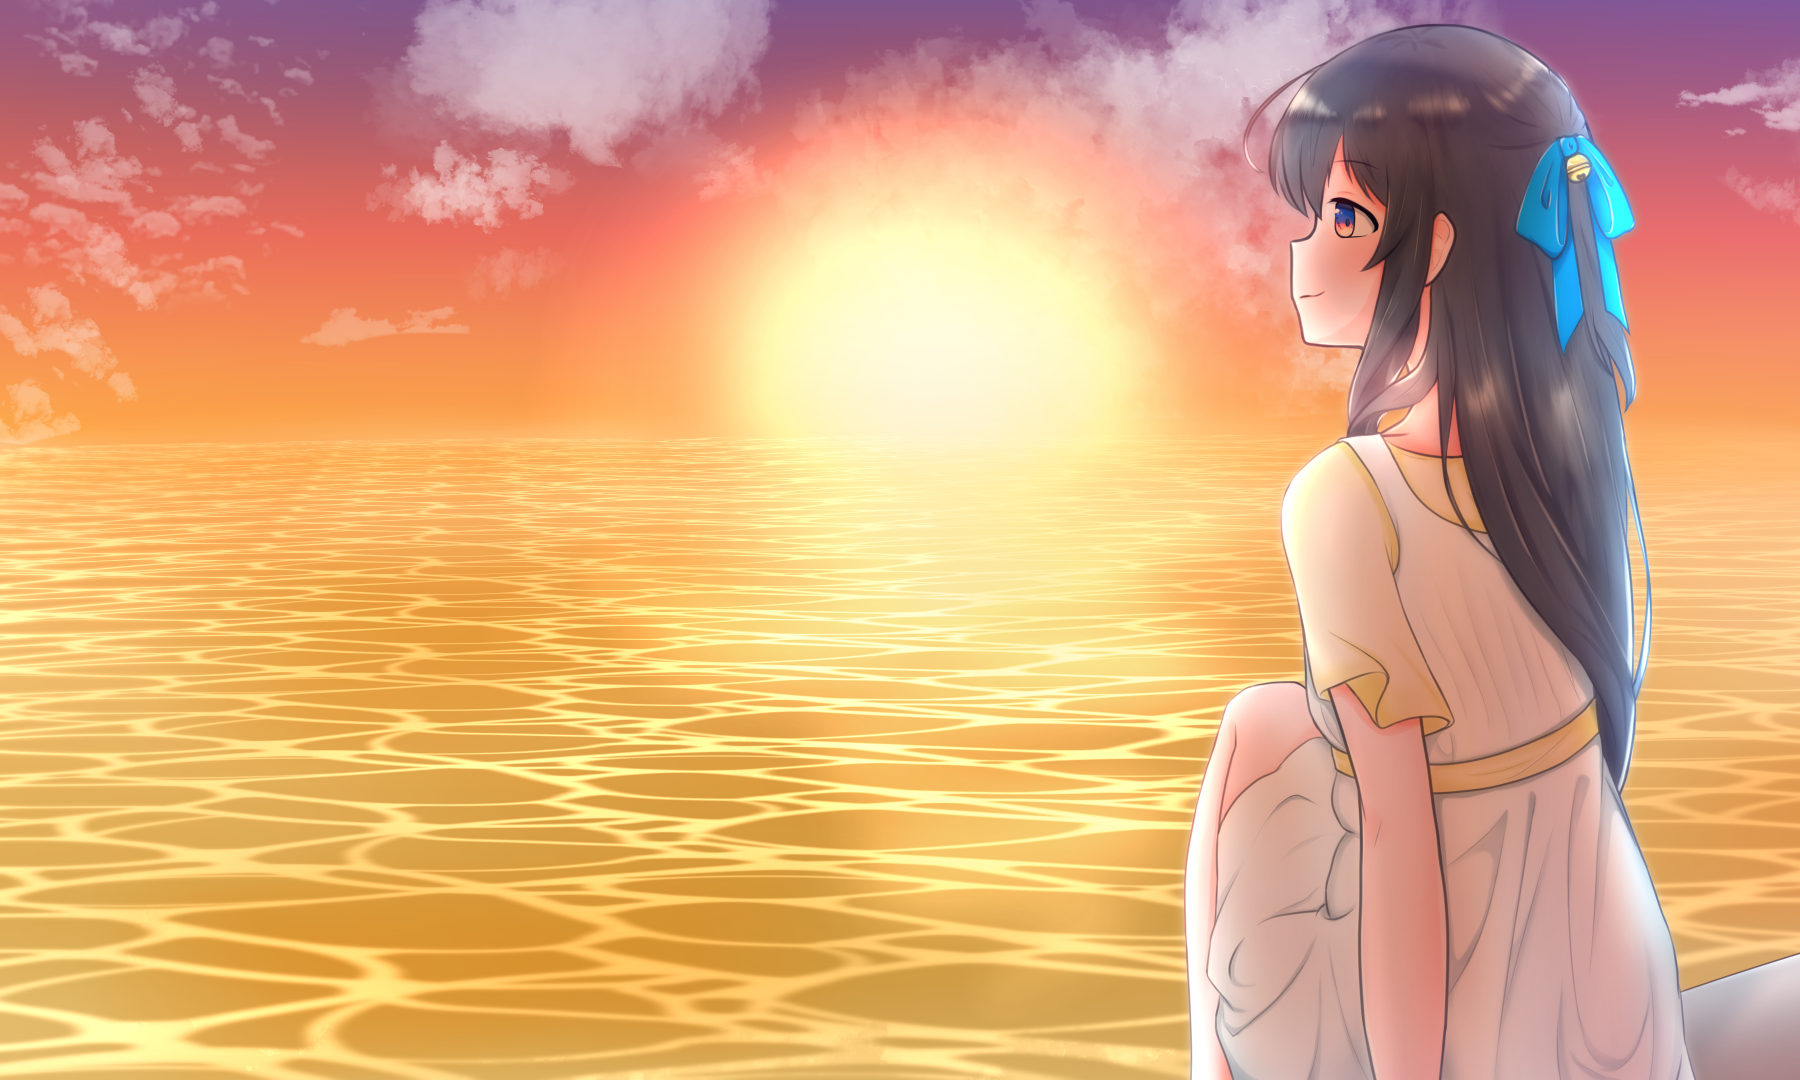
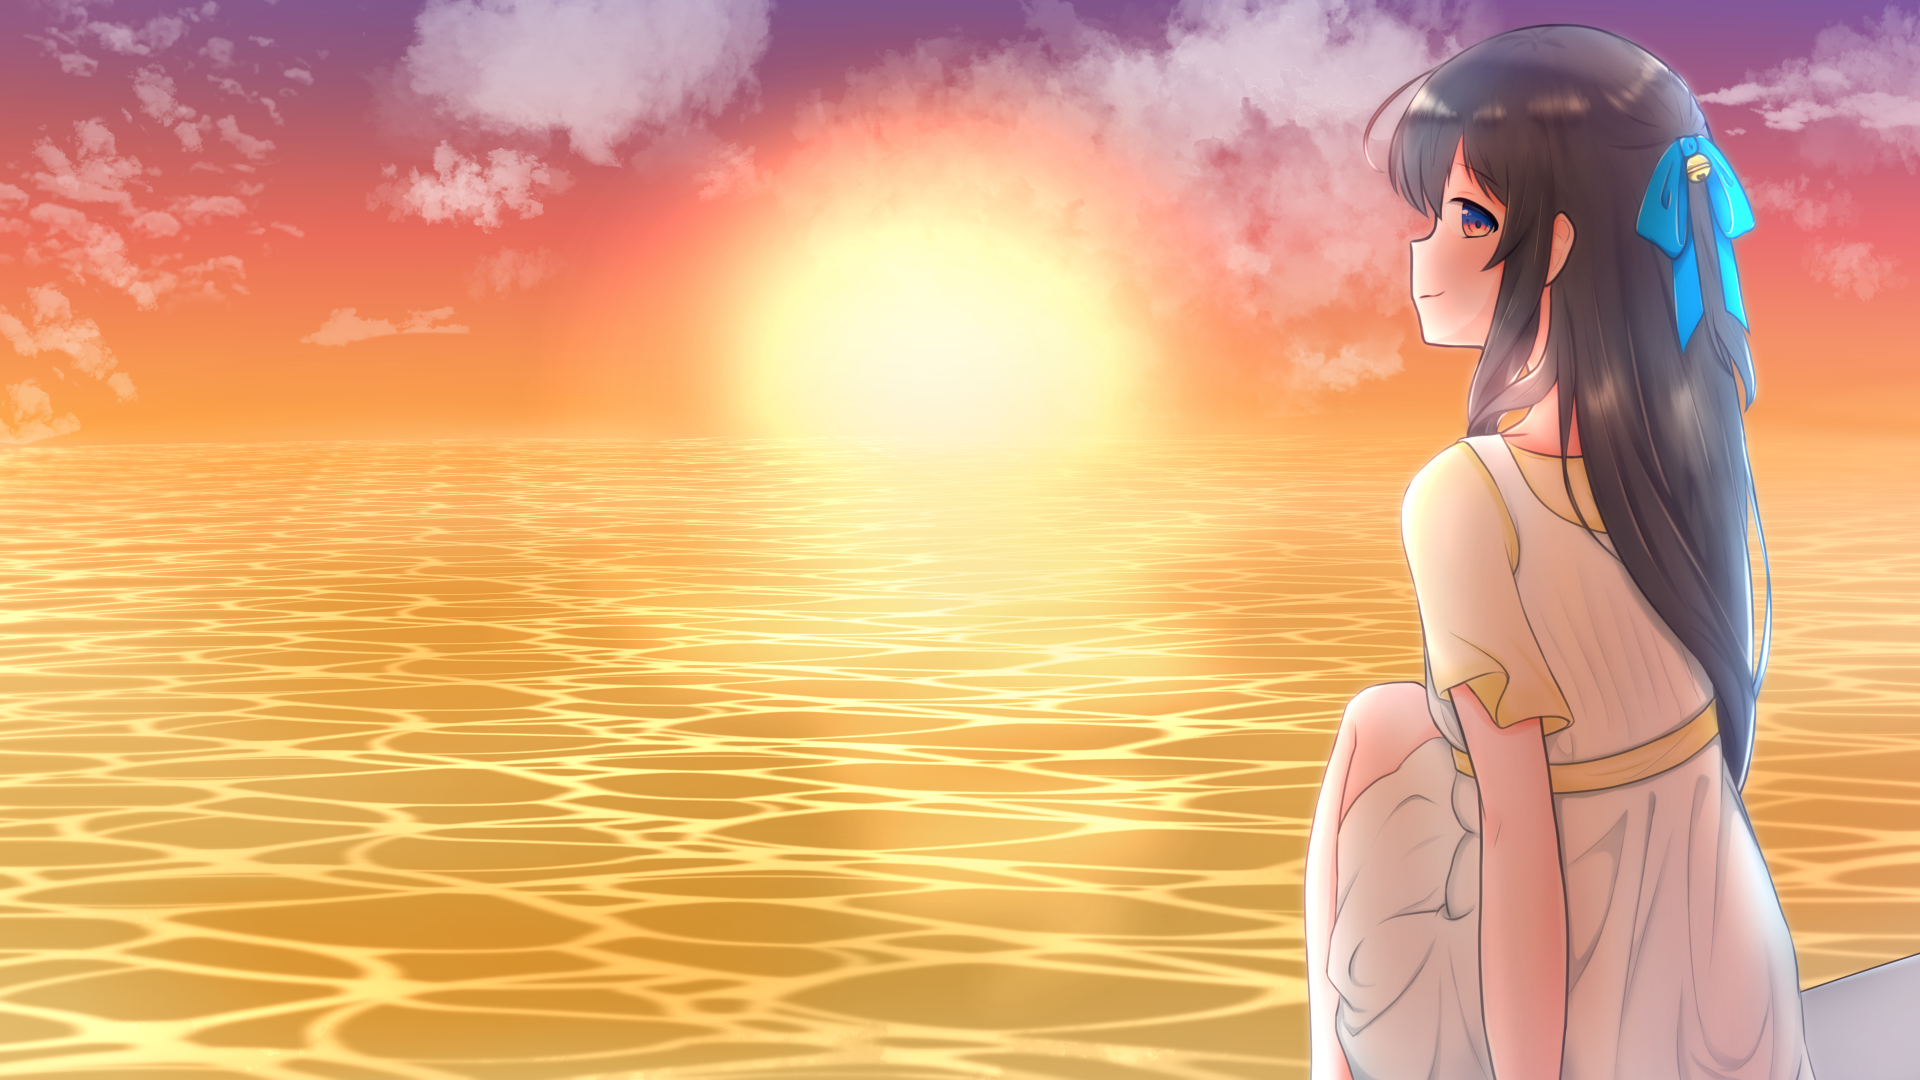
ウィンドウ幅調整

diff --git a/css/main.css b/css/main.css
@@ -14,29 +14,39 @@ table, caption, tbody, tfoot, thead, tr, th, td {
 	font-family:'Noto Sans JP', sans-serif;
 	font-style: inherit;
 	font-weight: inherit;
-    background-position: center;
+    background-position: right;
     background-attachment: fixed;
     scroll-behavior: smooth;
 }
 
+body,
+html {
+    height: 100%;
+    margin: 0 auto;
+    letter-spacing: 2px;
+}
+
 body{
-    background-color: #ffd;
-	background-image: url("../img/bg1.png");
-	background-attachment:fixed;
+    background-image:url(../img/bg1.png);
+    background-position: center;
+    background-attachment: fixed;
     background-repeat: no-repeat;
     background-size:cover;
-	
-/*	outline: 0;*/
 }
 
-.bg{
-    right:0;
-    bottom:0;
-    position: absolute;
-    z-index: 5;
+
+.page{
+    right:0px;
+    background-image:url(../img/bg2.png);
+    position: fixed;
+    background-attachment: fixed;
+    background-position: right;
+    background-repeat: no-repeat;
+    background-size: auto,cover;
     height:100%;
+    width:100%;
+    z-index:5;
 }
-
 
 .logo{
 	float: left;
@@ -45,6 +55,7 @@ body{
 	left: 60px;
     z-index:7;
 }
+
 
 .container{
 	margin:10px 0px 10px 0px;
@@ -57,6 +68,7 @@ body{
 	border-radius: 65px;
     z-index:6;
 }
+
 
 .main1{
 	position: relative;

diff --git a/index.html b/index.html
@@ -13,7 +13,8 @@
     <meta name="twitter:card" content="summary_large_image" />
     <meta name="twitter:site" content="@Sheol_project" />
         
-    <meta name="viewport" content="width=1024,user-scalable=yes" />
+    
+    <meta name="viewport" content="width=device-width,initial-scale=1">
     <meta name="robots" content="index,follow" />
     
 <!-- font -->
@@ -38,6 +39,7 @@
 
 </head>
 <body>
+    <div class="page">
     <div class="logo"><img src="img/logo.png" width="360px"></div>
     <div class="container">
     <div class="main1">
@@ -79,9 +81,8 @@
         <audio src="sound/No_sound.mp3" preload="auto"></audio><br>
         <p>　サンプルボイス7</p>
         <audio src="sound/No_sound.mp3" preload="auto"></audio><br>
-
+</div>
     </div>
     </div>
-    </div>
-    
+        </div>
     </body>
